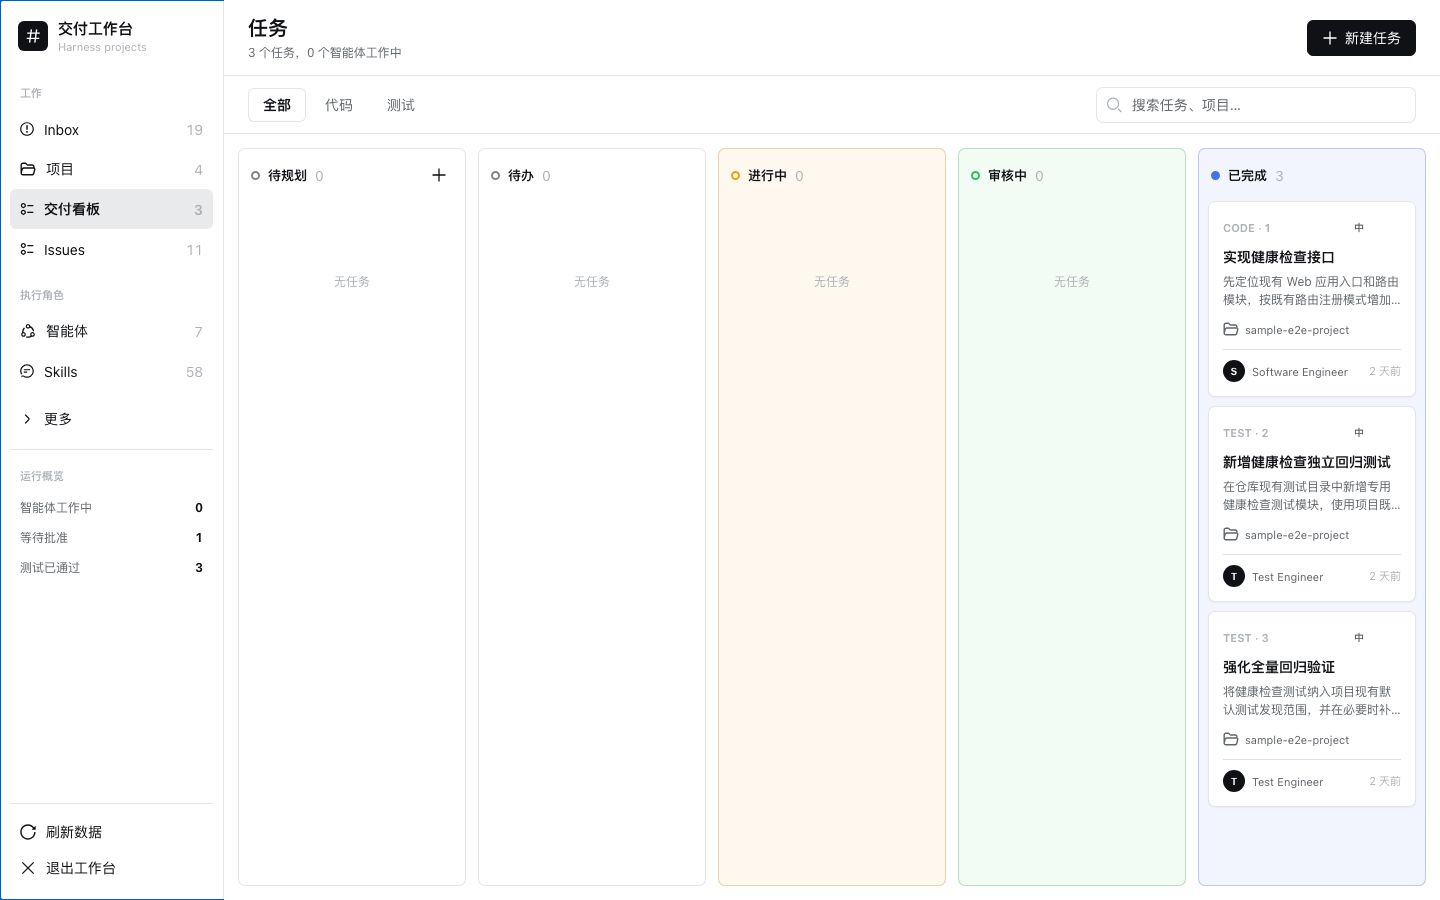
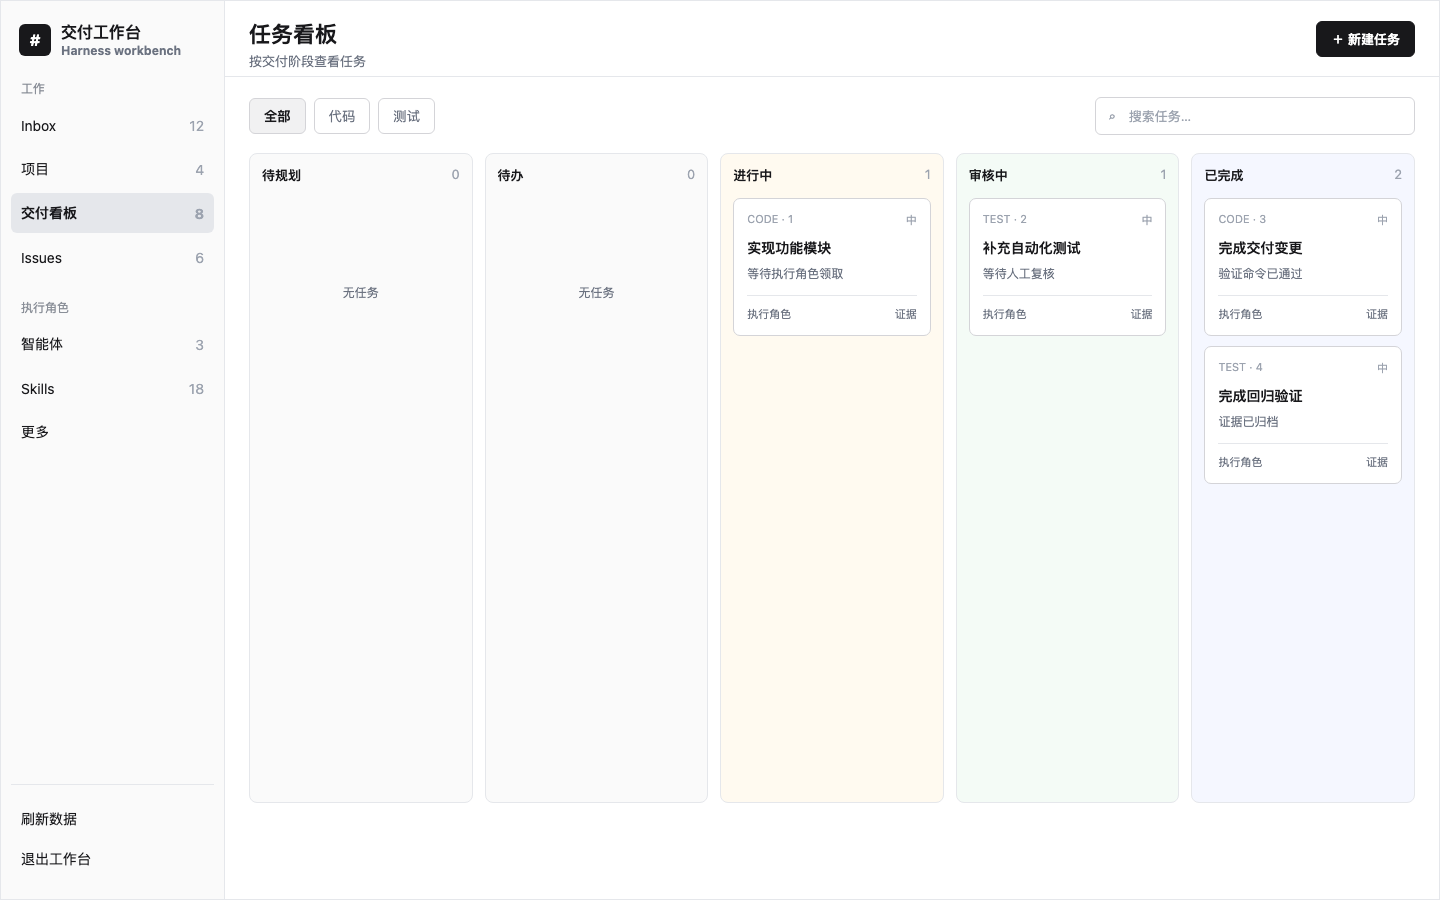
docs: replace project-specific README screenshots

diff --git a/README.md b/README.md
@@ -12,25 +12,25 @@ A **DeepSeek Harness plugin** for local-first AI project management and task orc
 
 ## See it in action
 
-The plugin lives inside the existing Harness Web shell. The main workflow is visible in three places: a project list for approval and progress scanning, a project detail view for the working directory and collaboration context, and a task board for execution work.
+The plugin lives inside the existing Harness Web shell. The following neutral UI illustrations show the main workflow without exposing any repository, project, path, URL, or user workspace data: approval and progress scanning, execution context, and task delivery stages.
 
 <p align="center">
   <img src="docs/assets/screenshots/project-overview-desktop.png" alt="DeepSeek Harness Project Orchestrator project list showing approval and progress columns" width="100%">
 </p>
 
-<p align="center"><em>Projects are easy to scan by status, approval revision, progress, owner, and working directory.</em></p>
+<p align="center"><em>Illustration: scan status, approval revision, progress, owner, and workspace association in one list.</em></p>
 
 <p align="center">
   <img src="docs/assets/screenshots/project-detail-desktop.png" alt="DeepSeek Harness Project Orchestrator project detail showing working directory, Squad readiness, Issues, Resources, and AI delivery flow" width="100%">
 </p>
 
-<p align="center"><em>Project detail keeps the working directory, Issues, Resources, Squad readiness, and approval-bound AI flow in one view.</em></p>
+<p align="center"><em>Illustration: keep workspace association, Resources, Squad readiness, and the approval-bound AI flow in one view.</em></p>
 
 <p align="center">
   <img src="docs/assets/screenshots/delivery-workbench.png" alt="DeepSeek Harness Project Orchestrator desktop delivery task board" width="100%">
 </p>
 
-<p align="center"><em>The delivery board makes approval-aware work visible across planning, queued, active, review, and completed stages.</em></p>
+<p align="center"><em>Illustration: make approval-aware work visible across planning, queued, active, review, and completed stages.</em></p>
 
 ```text
 Brief or GitHub Issues -> read-only planning -> reviewable Tasks

diff --git a/README.zh-CN.md b/README.zh-CN.md
@@ -12,25 +12,25 @@
 
 ## 先看界面
 
-插件运行在现有 Harness Web Shell 中，核心体验集中在三个界面：项目列表用于扫描审批与进度，项目详情用于查看工作目录和协作上下文，任务看板用于持续跟踪交付工作。
+插件运行在现有 Harness Web Shell 中。下面是三张不含任何仓库、项目、路径、URL 或用户工作区数据的通用界面示意图，分别展示审批与进度、执行上下文和任务交付阶段。
 
 <p align="center">
   <img src="docs/assets/screenshots/project-overview-desktop.png" alt="DeepSeek Harness 项目编排器项目列表，展示审批状态和任务进度" width="100%">
 </p>
 
-<p align="center"><em>项目列表可以快速查看状态、审批 Revision、完成进度、负责人和工作目录。</em></p>
+<p align="center"><em>界面示意：集中查看状态、审批 Revision、完成进度、负责人和工作区关联。</em></p>
 
 <p align="center">
   <img src="docs/assets/screenshots/project-detail-desktop.png" alt="DeepSeek Harness 项目编排器项目详情，展示工作目录、Squad、Issues、Resources 和 AI 交付流程" width="100%">
 </p>
 
-<p align="center"><em>项目详情把工作目录、Issues、Resources、Squad 可用性和需要审批的 AI 流程放在同一视图。</em></p>
+<p align="center"><em>界面示意：在同一视图查看工作区关联、Resources、Squad 可用性和需要审批的 AI 流程。</em></p>
 
 <p align="center">
   <img src="docs/assets/screenshots/delivery-workbench.png" alt="DeepSeek Harness 项目编排器桌面交付任务看板" width="100%">
 </p>
 
-<p align="center"><em>交付看板把待规划、待办、进行中、审核中和已完成阶段集中展示。</em></p>
+<p align="center"><em>界面示意：集中展示待规划、待办、进行中、审核中和已完成阶段。</em></p>
 
 ```text
 交付简报或 GitHub Issues -> 只读规划 -> 可审阅任务
